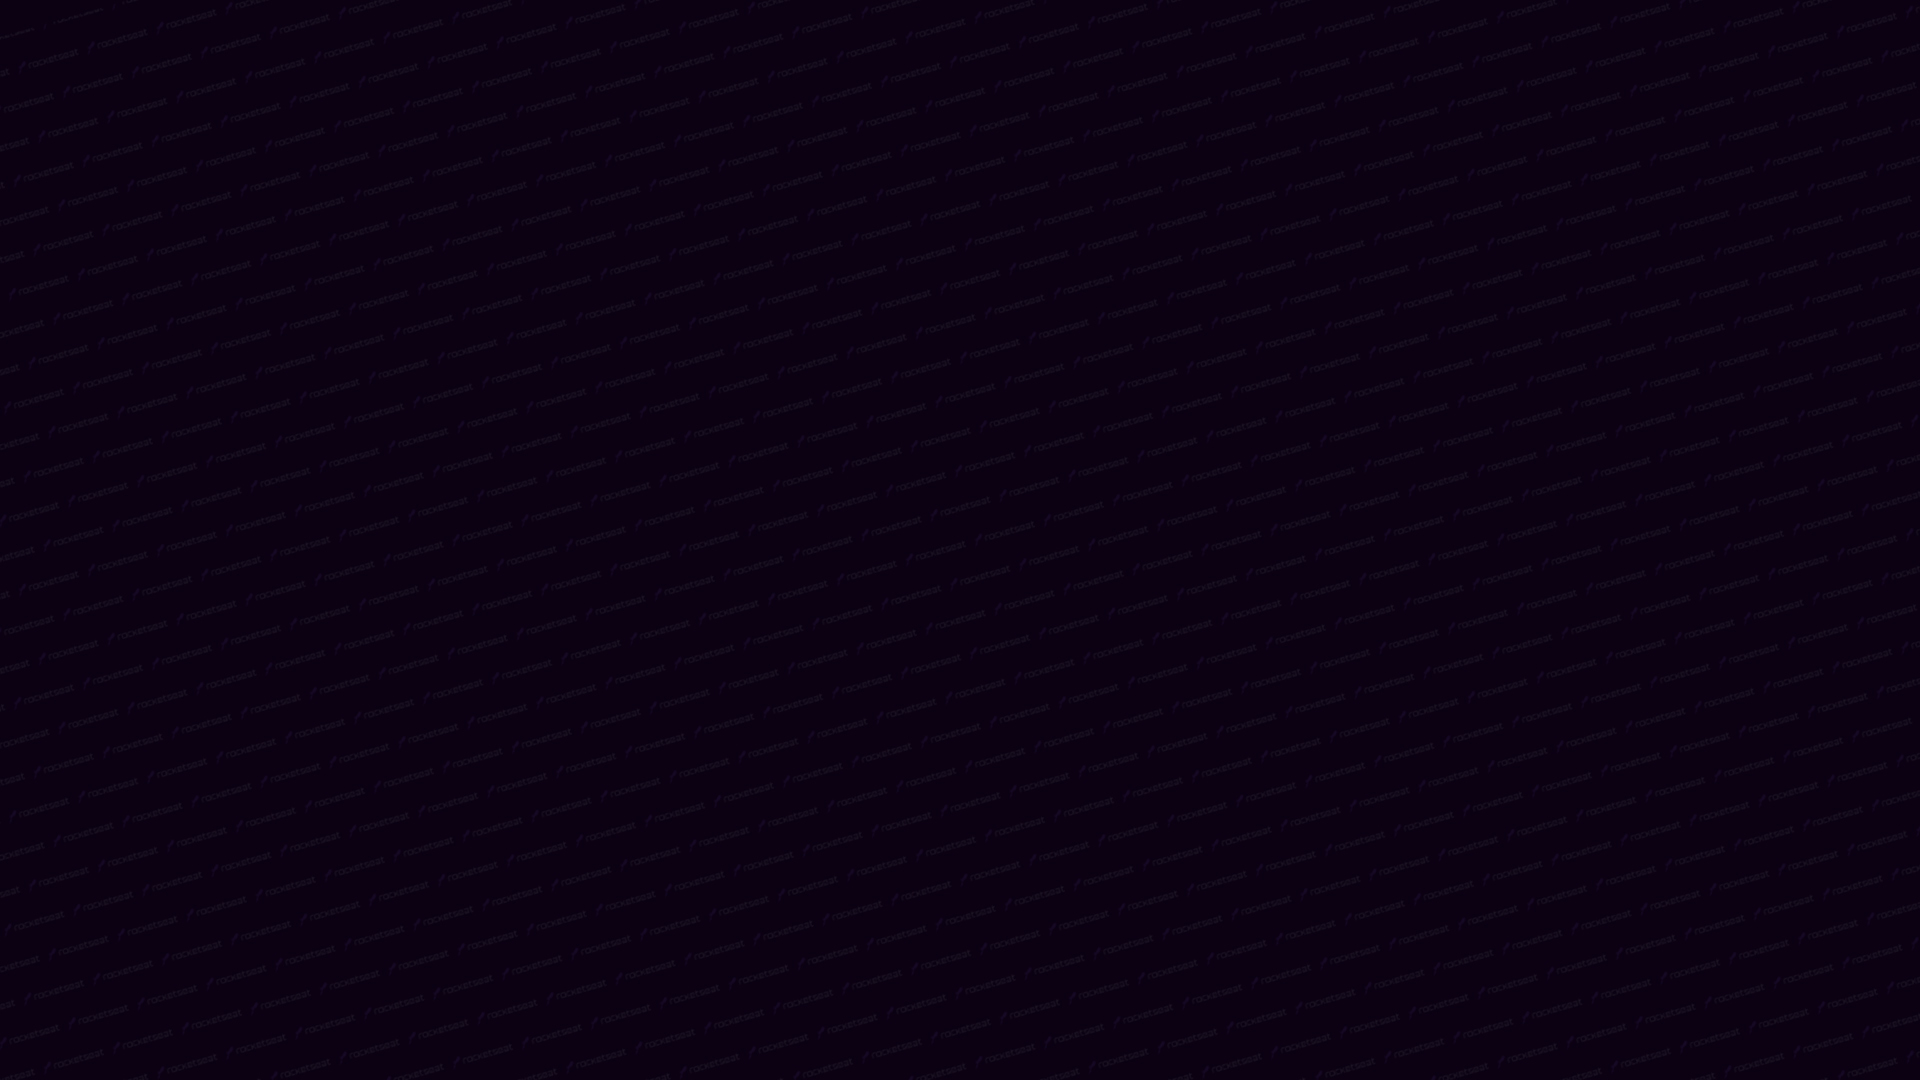
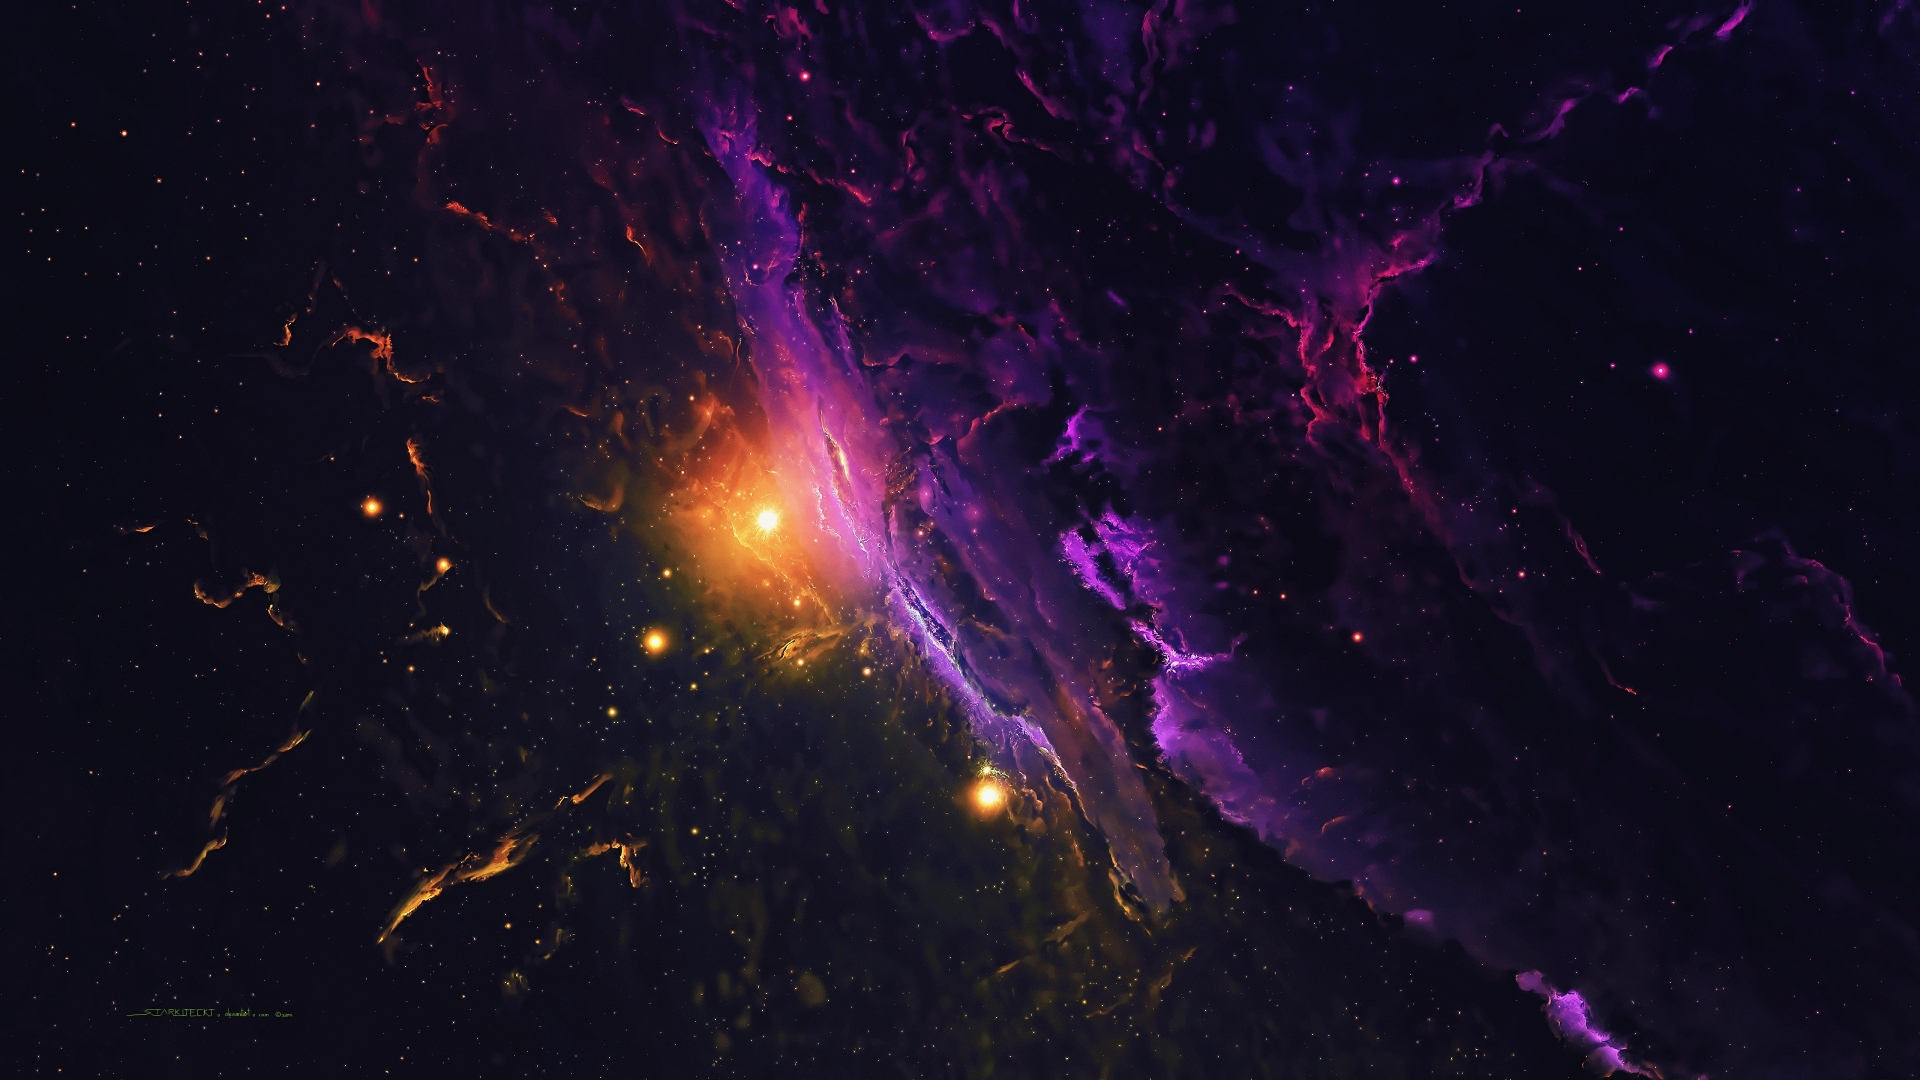
background new

diff --git a/style.css b/style.css
@@ -11,7 +11,7 @@ ul {
 body {
     background-image: url(./assets/bg.jpg);
     background-position: top center;
-    background-size: 100% auto;
+    background-size: auto 100%;
     /*background-repeat: no-repeat;*/
     background-color: #121214;
 }
